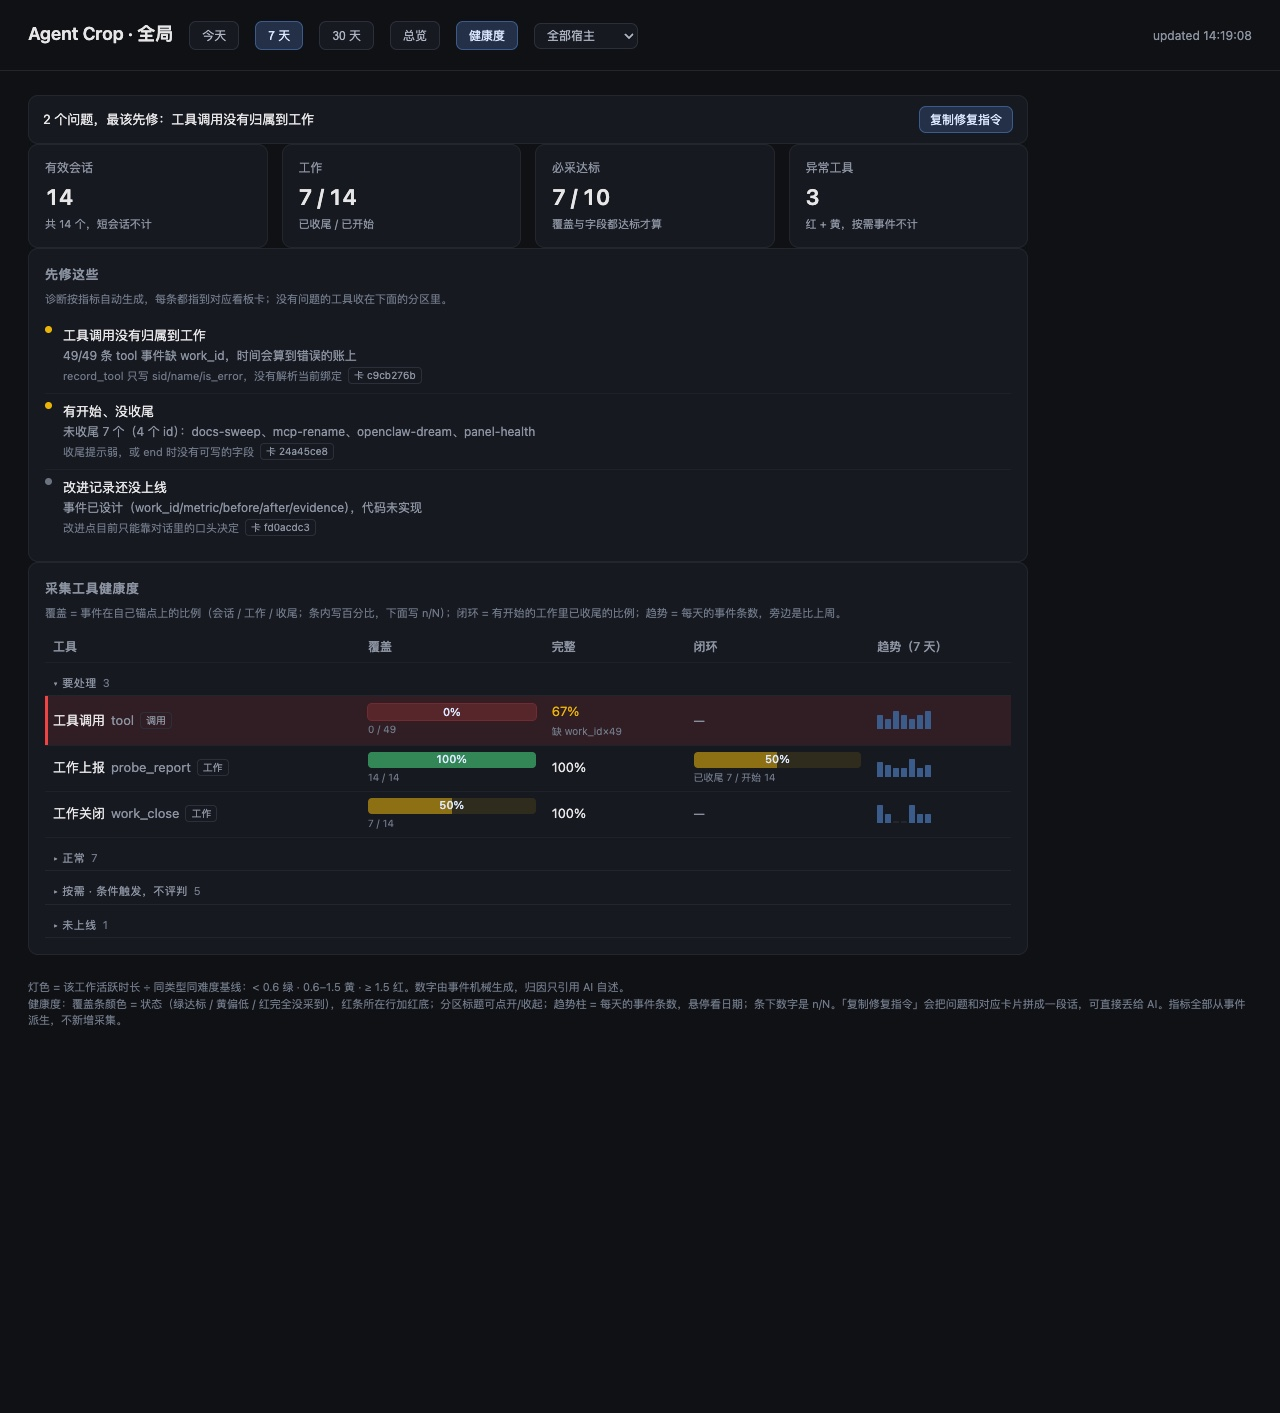
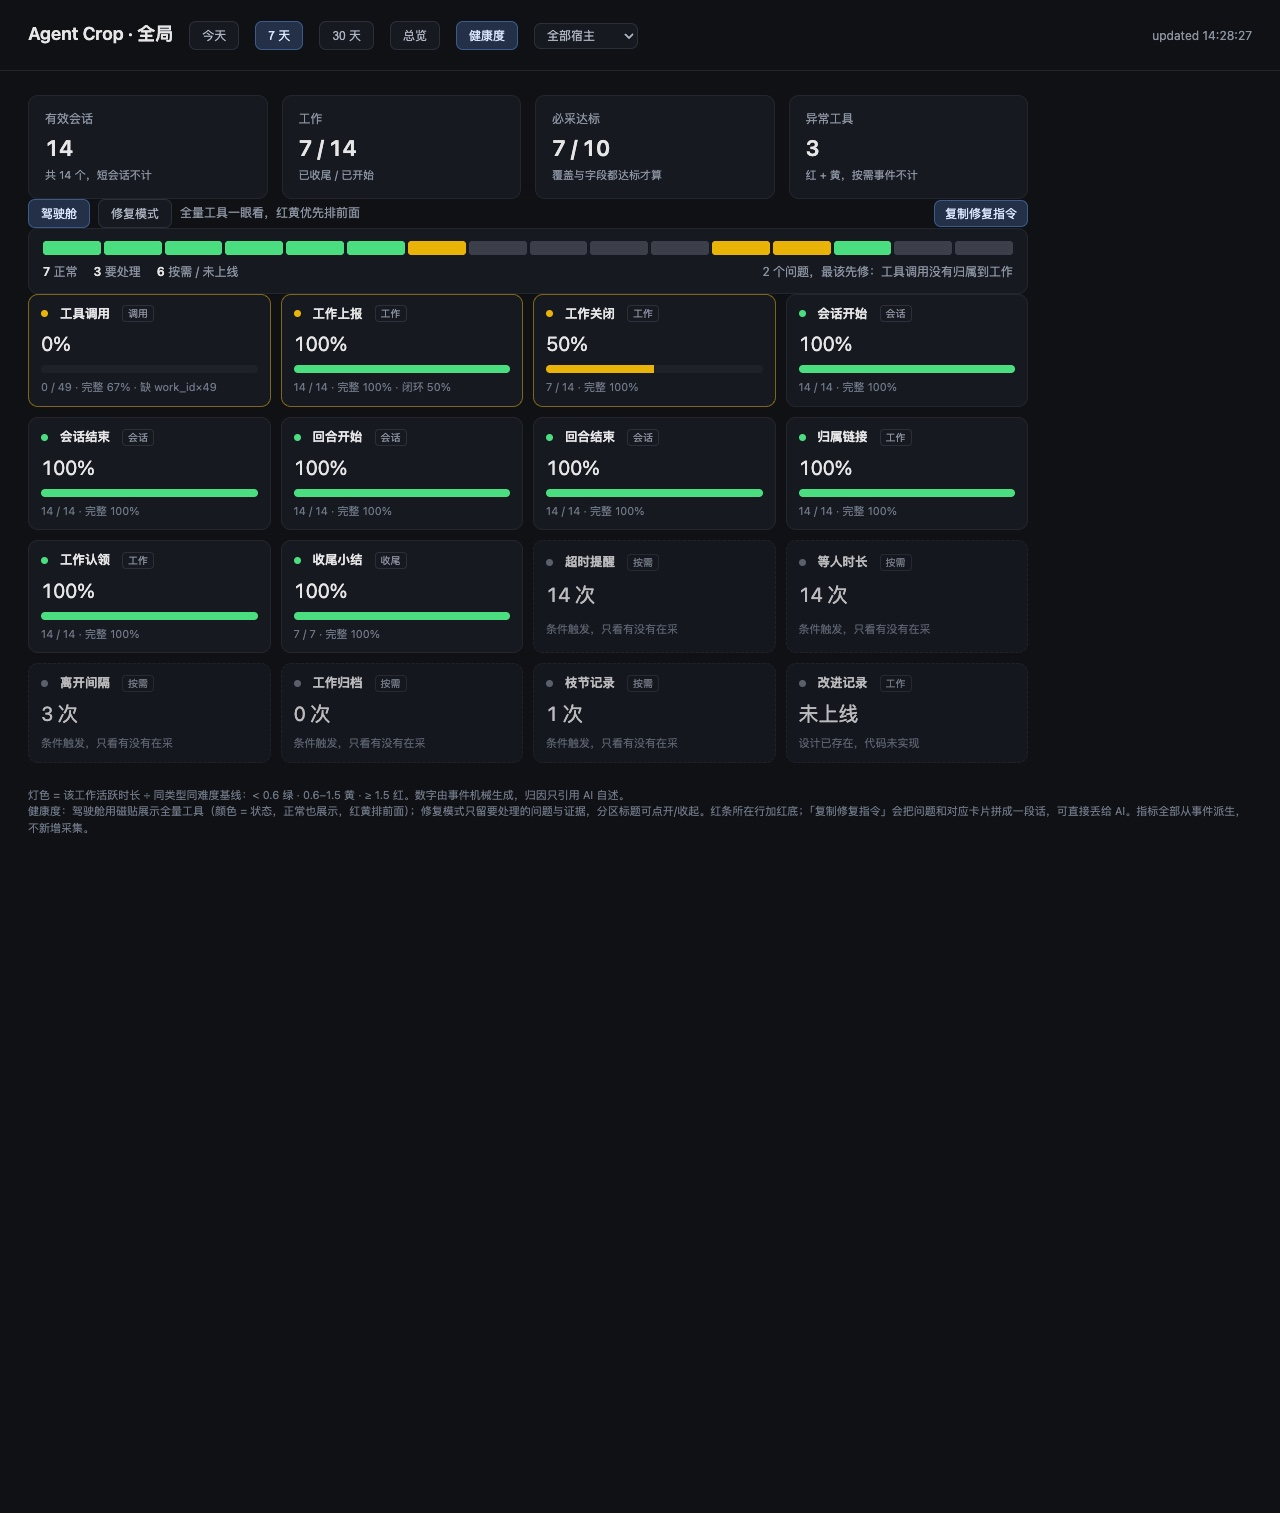
feat(panel): 健康度分双视图——驾驶舱（全量可见）+ 修复模式（问题优先）
- 驾驶舱（默认）：全量工具铺成磁贴，正常/异常都在，颜色=状态，红黄排前面；
  顶部状态带 + 计数（正常 / 要处理 / 按需+未上线），先给「大部分健康」的整体感
- 磁贴：大号百分比/次数 + 覆盖条（颜色按指标阈值，不是整行灯）+ 底部 n/N、完整、闭环、缺字段
- 修复模式：保留上一轮「结论 → 诊断 → 分区表」的修问题路径
- 两个视图共用「复制修复指令」；视图切换按钮带一句说明
- 修磁贴条颜色：100% 覆盖但闭环不足时，条是绿的、边框是黄的，指标各说各的

diff --git a/core/crop_serve.py b/core/crop_serve.py
@@ -69,6 +69,31 @@ tr.sect .n{color:#6f7887;margin-left:6px}
 tbody.sect-group.closed tr.row{display:none}
 .spark-row{display:flex;align-items:center;gap:8px}
 .spark-row .delta{font-size:11px}
+.health-switch{display:flex;align-items:center;gap:8px}
+.mode{background:#161920;border:1px solid #2a2f39;color:#aeb6c4;border-radius:7px;padding:5px 12px;font-size:12px;cursor:pointer}
+.mode.on{background:#233047;border-color:#3b5b8a;color:#dbe7ff}
+.health-switch .copy{margin-left:auto}
+.strip{background:#161920;border:1px solid #23262d;border-radius:10px;padding:12px 14px;display:grid;gap:8px}
+.strip-bar{display:flex;gap:3px;height:14px}
+.strip-bar i{flex:1;border-radius:3px;min-width:4px}
+.strip-legend{display:flex;gap:16px;color:#8b93a1;font-size:12px;flex-wrap:wrap}
+.strip-legend b{color:#e6e6e6;font-weight:600}
+.cockpit{display:grid;grid-template-columns:repeat(auto-fit,minmax(215px,1fr));gap:10px}
+.tile{background:#161920;border:1px solid #23262d;border-radius:10px;padding:10px 12px;display:grid;gap:6px}
+.tile-head{display:flex;align-items:center;gap:6px;font-size:12.5px}
+.tile-head b{font-weight:600}
+.tile-value{font-size:20px;font-variant-numeric:tabular-nums}
+.tile-bar{height:8px;background:#1e2128;border-radius:4px;overflow:hidden}
+.tile-bar i{display:block;height:100%}
+.tile-foot{color:#6f7887;font-size:11px;line-height:1.5}
+.tile.tone-red{border-color:#ef4444;background:rgba(239,68,68,.12);box-shadow:0 0 0 1px rgba(239,68,68,.35)}
+.tile.tone-yellow{border-color:rgba(234,179,8,.5)}
+.tile.tone-gray{opacity:.8;border-style:dashed}
+.tile.tone-green .dot{background:#4ade80}
+.tile.tone-red .dot{background:#ef4444}
+.tile.tone-yellow .dot{background:#eab308}
+.tile.tone-gray .dot{background:#6b7280}
+.tile.tone-red .tile-value{color:#ff9b9b}
 select.host{background:#161920;border:1px solid #2a2f39;color:#aeb6c4;border-radius:7px;padding:4px 8px;font-size:12px}
 .chart{display:flex;align-items:flex-end;gap:6px;height:180px;padding-top:6px}
 .slot{flex:1;display:flex;flex-direction:column;justify-content:flex-end;align-items:center;height:100%;cursor:pointer;min-width:8px}
@@ -103,22 +128,32 @@ footer{color:#6f7887;font-size:11px;padding:0 28px 24px}
   </section>
   </div>
   <div id="view-health" class="view" hidden>
-    <div class="headline" id="health-headline">
-      <span id="headline-text"></span>
+    <div class="cards" id="health-cards"></div>
+    <div class="health-switch">
+      <button class="mode on" data-health-mode="cockpit">驾驶舱</button>
+      <button class="mode" data-health-mode="fix">修复模式</button>
+      <span class="sub" id="health-mode-note"></span>
       <button class="copy" id="copy-diagnosis" title="复制成一段话，可直接丢给 AI 去修">复制修复指令</button>
     </div>
-    <div class="cards" id="health-cards"></div>
-    <section><h2>先修这些</h2>
-      <div class="hint">诊断按指标自动生成，每条都指到对应看板卡；没有问题的工具收在下面的分区里。</div>
-      <div id="health-diags"></div>
-    </section>
-    <section><h2>采集工具健康度</h2>
-      <div class="hint">覆盖 = 事件在自己锚点上的比例（会话 / 工作 / 收尾；条内写百分比，下面写 n/N）；闭环 = 有开始的工作里已收尾的比例；趋势 = 每天的事件条数，旁边是比上周。</div>
-      <table class="health-table" id="health-table"><thead><tr><th>工具</th><th>覆盖</th><th>完整</th><th>闭环</th><th>趋势（7 天）</th></tr></thead></table>
-    </section>
+    <div id="health-cockpit">
+      <div class="strip" id="cockpit-strip"></div>
+      <div class="cockpit" id="cockpit-grid"></div>
+    </div>
+    <div id="health-fix" hidden>
+      <div class="headline" id="health-headline"><span id="headline-text"></span></div>
+      <section><h2>先修这些</h2>
+        <div class="hint">诊断按指标自动生成，每条都指到对应看板卡；没有问题的工具收在下面的分区里。</div>
+        <div id="health-diags"></div>
+      </section>
+      <section><h2>采集工具健康度</h2>
+        <div class="hint">覆盖 = 事件在自己锚点上的比例（会话 / 工作 / 收尾；条内写百分比，下面写 n/N）；闭环 = 有开始的工作里已收尾的比例；趋势 = 每天的事件条数，旁边是比上周。</div>
+        <table class="health-table" id="health-table"><thead><tr><th>工具</th><th>覆盖</th><th>完整</th><th>闭环</th><th>趋势（7 天）</th></tr></thead></table>
+      </section>
+    </div>
+  </div>
   </div>
 </main>
-<footer>灯色 = 该工作活跃时长 ÷ 同类型同难度基线：&lt; 0.6 绿 · 0.6–1.5 黄 · ≥ 1.5 红。数字由事件机械生成，归因只引用 AI 自述。<br>健康度：覆盖条颜色 = 状态（绿达标 / 黄偏低 / 红完全没采到），红条所在行加红底；分区标题可点开/收起；趋势柱 = 每天的事件条数，悬停看日期；条下数字是 n/N。「复制修复指令」会把问题和对应卡片拼成一段话，可直接丢给 AI。指标全部从事件派生，不新增采集。</footer>
+<footer>灯色 = 该工作活跃时长 ÷ 同类型同难度基线：&lt; 0.6 绿 · 0.6–1.5 黄 · ≥ 1.5 红。数字由事件机械生成，归因只引用 AI 自述。<br>健康度：驾驶舱用磁贴展示全量工具（颜色 = 状态，正常也展示，红黄排前面）；修复模式只留要处理的问题与证据，分区标题可点开/收起。红条所在行加红底；「复制修复指令」会把问题和对应卡片拼成一段话，可直接丢给 AI。指标全部从事件派生，不新增采集。</footer>
 <script>
 let rangeDays = 7;
 const LAMP = {green:'#4ade80', yellow:'#eab308', red:'#ef4444'};
@@ -201,6 +236,22 @@ function renderWorkList(rows){
 let view = 'overview';
 let lastHealth = null;
 const openSections = new Set(['issues']);
+let healthMode = 'cockpit';
+
+function setHealthMode(mode){
+  healthMode = mode;
+  document.querySelectorAll('.mode').forEach(button =>
+    button.classList.toggle('on', button.dataset.healthMode === mode));
+  const cockpit = document.getElementById('health-cockpit');
+  const fix = document.getElementById('health-fix');
+  if (cockpit) cockpit.hidden = mode !== 'cockpit';
+  if (fix) fix.hidden = mode !== 'fix';
+  const note = document.getElementById('health-mode-note');
+  if (note) note.textContent = mode === 'cockpit' ? '全量工具一眼看，红黄优先排前面' : '只留要修的问题和证据';
+}
+document.querySelectorAll('.mode').forEach(button =>
+  button.addEventListener('click', () => setHealthMode(button.dataset.healthMode)));
+setHealthMode('cockpit');
 
 function setView(next){
   view = next;
@@ -389,6 +440,70 @@ document.getElementById('health-table').addEventListener('click', event => {
     Boolean((lastHealth.summary || {}).has_previous));
 });
 
+function toneOf(row){
+  if (row.status === 'not-shipped' || row['class'] === 'on_demand') return 'gray';
+  if (row.lamp === 'red') return 'red';
+  if (row.lamp === 'yellow') return 'yellow';
+  return 'green';
+}
+
+function tileValue(row){
+  if (row.status === 'not-shipped') return '未上线';
+  if (row['class'] === 'on_demand') return row.events + ' 次';
+  return row.session_coverage == null ? '—' : pct(row.session_coverage);
+}
+
+function tileFoot(row){
+  if (row.status === 'not-shipped') return '设计已存在，代码未实现';
+  if (row['class'] === 'on_demand') return '条件触发，只看有没有在采';
+  const parts = [];
+  if (row.coverage_denominator != null) parts.push(row.coverage_numerator + ' / ' + row.coverage_denominator);
+  if (row.events) parts.push('完整 ' + pct(row.field_completeness));
+  if (row.stage_closure != null) parts.push('闭环 ' + pct(row.stage_closure));
+  const missing = Object.entries(row.missing_fields || {});
+  if (missing.length) parts.push('缺 ' + missing.map(([key, value]) => key + '×' + value).join('、'));
+  return parts.join(' · ');
+}
+
+function tileHtml(row){
+  const tone = toneOf(row);
+  const value = tileValue(row);
+  const thresholds = {session: 0.8, work: 0.7, ended: 0.8, call: 0.9};
+  let color = '#6b7280';
+  if (row.status !== 'not-shipped' && row['class'] !== 'on_demand' && row.session_coverage != null) {
+    const threshold = thresholds[row['class']] || 0.8;
+    color = row.session_coverage >= threshold ? '#4ade80'
+      : (row.session_coverage > 0 ? '#eab308' : '#ef4444');
+  }
+  const width = row.session_coverage == null ? 0 : Math.round(row.session_coverage * 100);
+  const bar = tone === 'gray' ? '' : '<div class="tile-bar"><i style="width:' + width + '%;background:' + color + '"></i></div>';
+  return '<div class="tile tone-' + tone + '" title="' + esc(row.tool + ' · ' + row.scope + '口径') + '">' +
+    '<div class="tile-head"><span class="dot"></span><b>' + esc(row.label) + '</b><span class="tag">' + esc(row.scope) + '</span></div>' +
+    '<div class="tile-value">' + esc(value) + '</div>' + bar +
+    '<div class="tile-foot">' + esc(tileFoot(row)) + '</div></div>';
+}
+
+function renderCockpit(data){
+  const rows = (data.passive || []).concat(data.active || []);
+  const order = {red: 0, yellow: 1, green: 2, gray: 3};
+  const sorted = rows.slice().sort((a, b) => order[toneOf(a)] - order[toneOf(b)]);
+  document.getElementById('cockpit-grid').innerHTML = sorted.map(row => tileHtml(row)).join('');
+  const counts = {red: 0, yellow: 0, green: 0, gray: 0};
+  rows.forEach(row => { counts[toneOf(row)] += 1; });
+  const segments = rows.map(row => {
+    const tone = toneOf(row);
+    const color = tone === 'red' ? '#ef4444' : (tone === 'yellow' ? '#eab308' : (tone === 'green' ? '#4ade80' : '#3a3f4a'));
+    return '<i style="background:' + color + '" title="' + esc(row.label) + '"></i>';
+  }).join('');
+  const headline = (data.summary || {}).headline || '';
+  document.getElementById('cockpit-strip').innerHTML =
+    '<div class="strip-bar">' + segments + '</div>' +
+    '<div class="strip-legend"><span><b>' + counts.green + '</b> 正常</span>' +
+    '<span><b>' + (counts.red + counts.yellow) + '</b> 要处理</span>' +
+    '<span><b>' + counts.gray + '</b> 按需 / 未上线</span>' +
+    '<span style="margin-left:auto" class="sub">' + esc(headline) + '</span></div>';
+}
+
 function renderHealth(data){
   lastHealth = data;
   const s = data.summary || {};
@@ -404,9 +519,11 @@ function renderHealth(data){
   document.getElementById('health-cards').innerHTML = cards.map(([k, v, note]) =>
     '<div class="card"><div class="k">' + k + '</div><div class="v">' + (v == null ? '—' : v) + '</div>' +
     '<div class="n">' + note + '</div></div>').join('');
+  renderCockpit(data);
   renderTable((data.passive || []).concat(data.active || []), works, Boolean(s.has_previous));
   renderDiags(data);
   syncHostOptions(data.hosts || []);
+  setHealthMode(healthMode);
 }
 
 async function loadHealth(){

diff --git a/CHANGELOG.md b/CHANGELOG.md
@@ -16,10 +16,10 @@ Agent Crop（npm 包 `agent-crop-dsh`）的版本历史。结构参考 Keep a Ch
   - 事件分四类口径：会话 / 工作 / 调用 / 按需；覆盖按各自锚点算（会话数、工作数、收尾工作数），
     分母可悬停查看；「按需」事件（提醒、离开、枝节、归档）只报计数、不亮红黄，避免假警报。
   - 主动上报额外看阶段闭环（start→end，按会话×工作配对）与提醒后 10 分钟跟进率。
-  - 面板首屏：一句话结论（可「复制修复指令」）→「先修这些」诊断 → 工具表；
-    表按状态分区（要处理/正常/按需/未上线），默认只展开要处理，其余点标题展开；
-    覆盖与闭环合并成彩色条（条内百分比、条下 n/N），红条所在行加红底；
-    趋势为每日事件条数小柱图，并合并「比上周」；缺字段标「缺 work_id×N」；按主机筛选。
+  - 面板分两个视图：**驾驶舱**默认展示全量工具磁贴（颜色=状态，红黄排前，正常也可见）+ 顶部状态带与计数；
+    **修复模式**保留「结论 → 诊断 → 表」并支持分区折叠。两个视图共用「复制修复指令」。
+    表内覆盖与闭环为彩色条（条内百分比、条下 n/N），红条行加红底；趋势为每日事件条数小柱图并合并「比上周」；
+    缺字段标「缺 work_id×N」；按主机筛选。
   - `core.health_summary()` 计算指标，`/api/tool-health` 暴露 JSON，面板只渲染；
     指标全部从原始事件派生，不新增采集；样本 < 3 个会话时只报「样本太少」。
   - 统计纪律：排除 < 2 turn 的会话；闭环按「会话 × 工作」配对，避免同一 work_id 跨会话算成已收尾。
